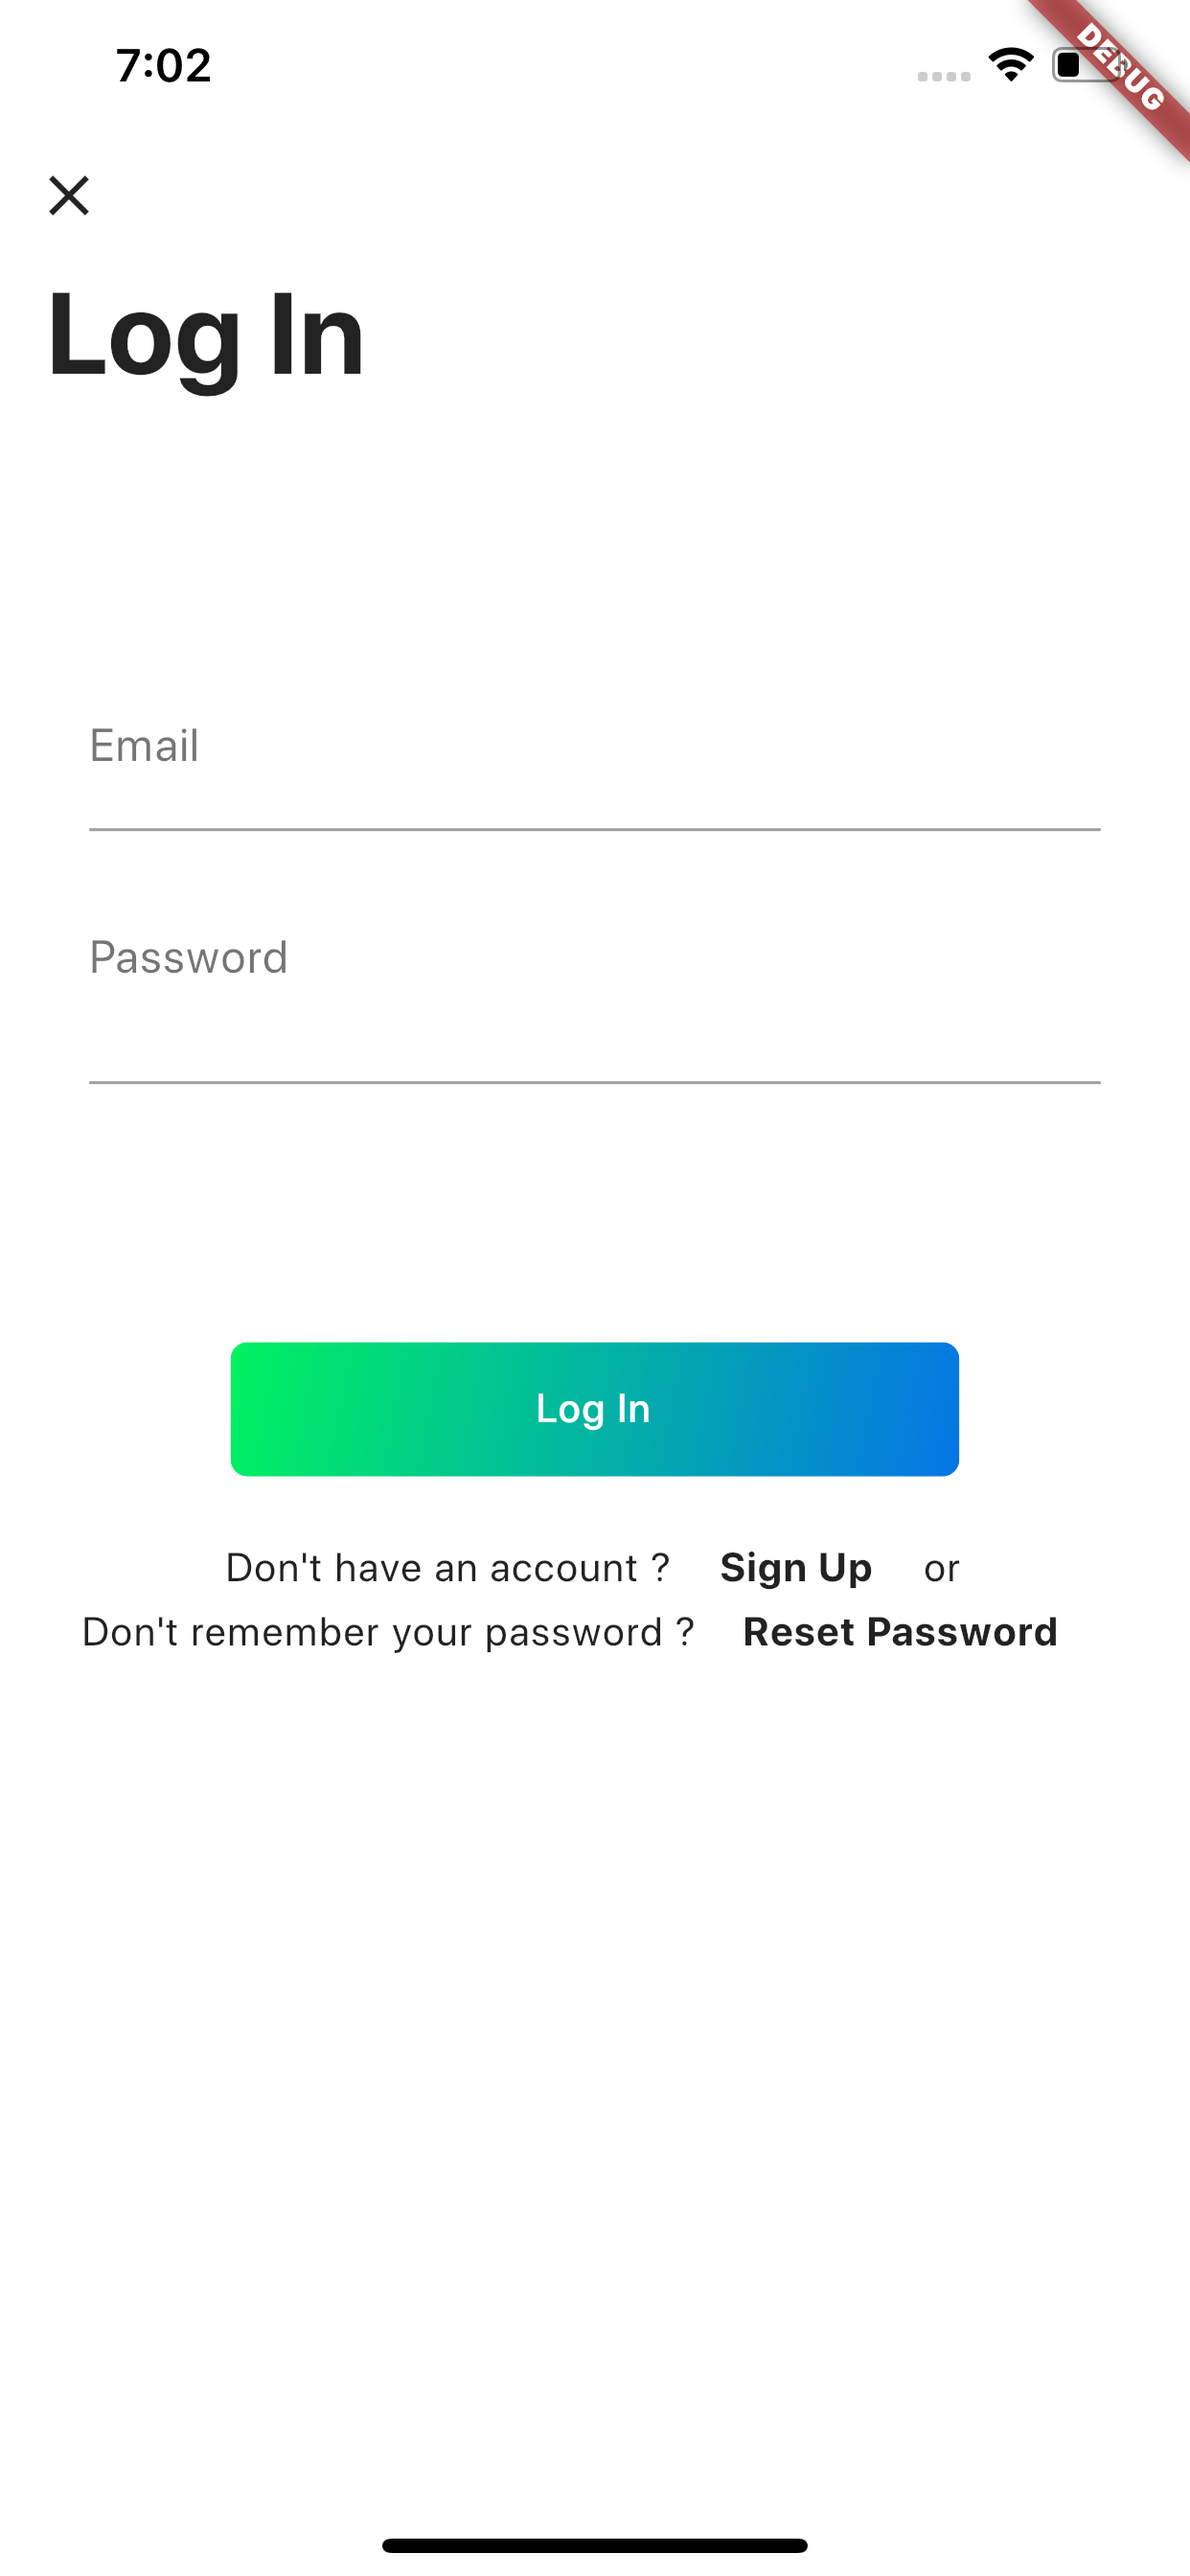
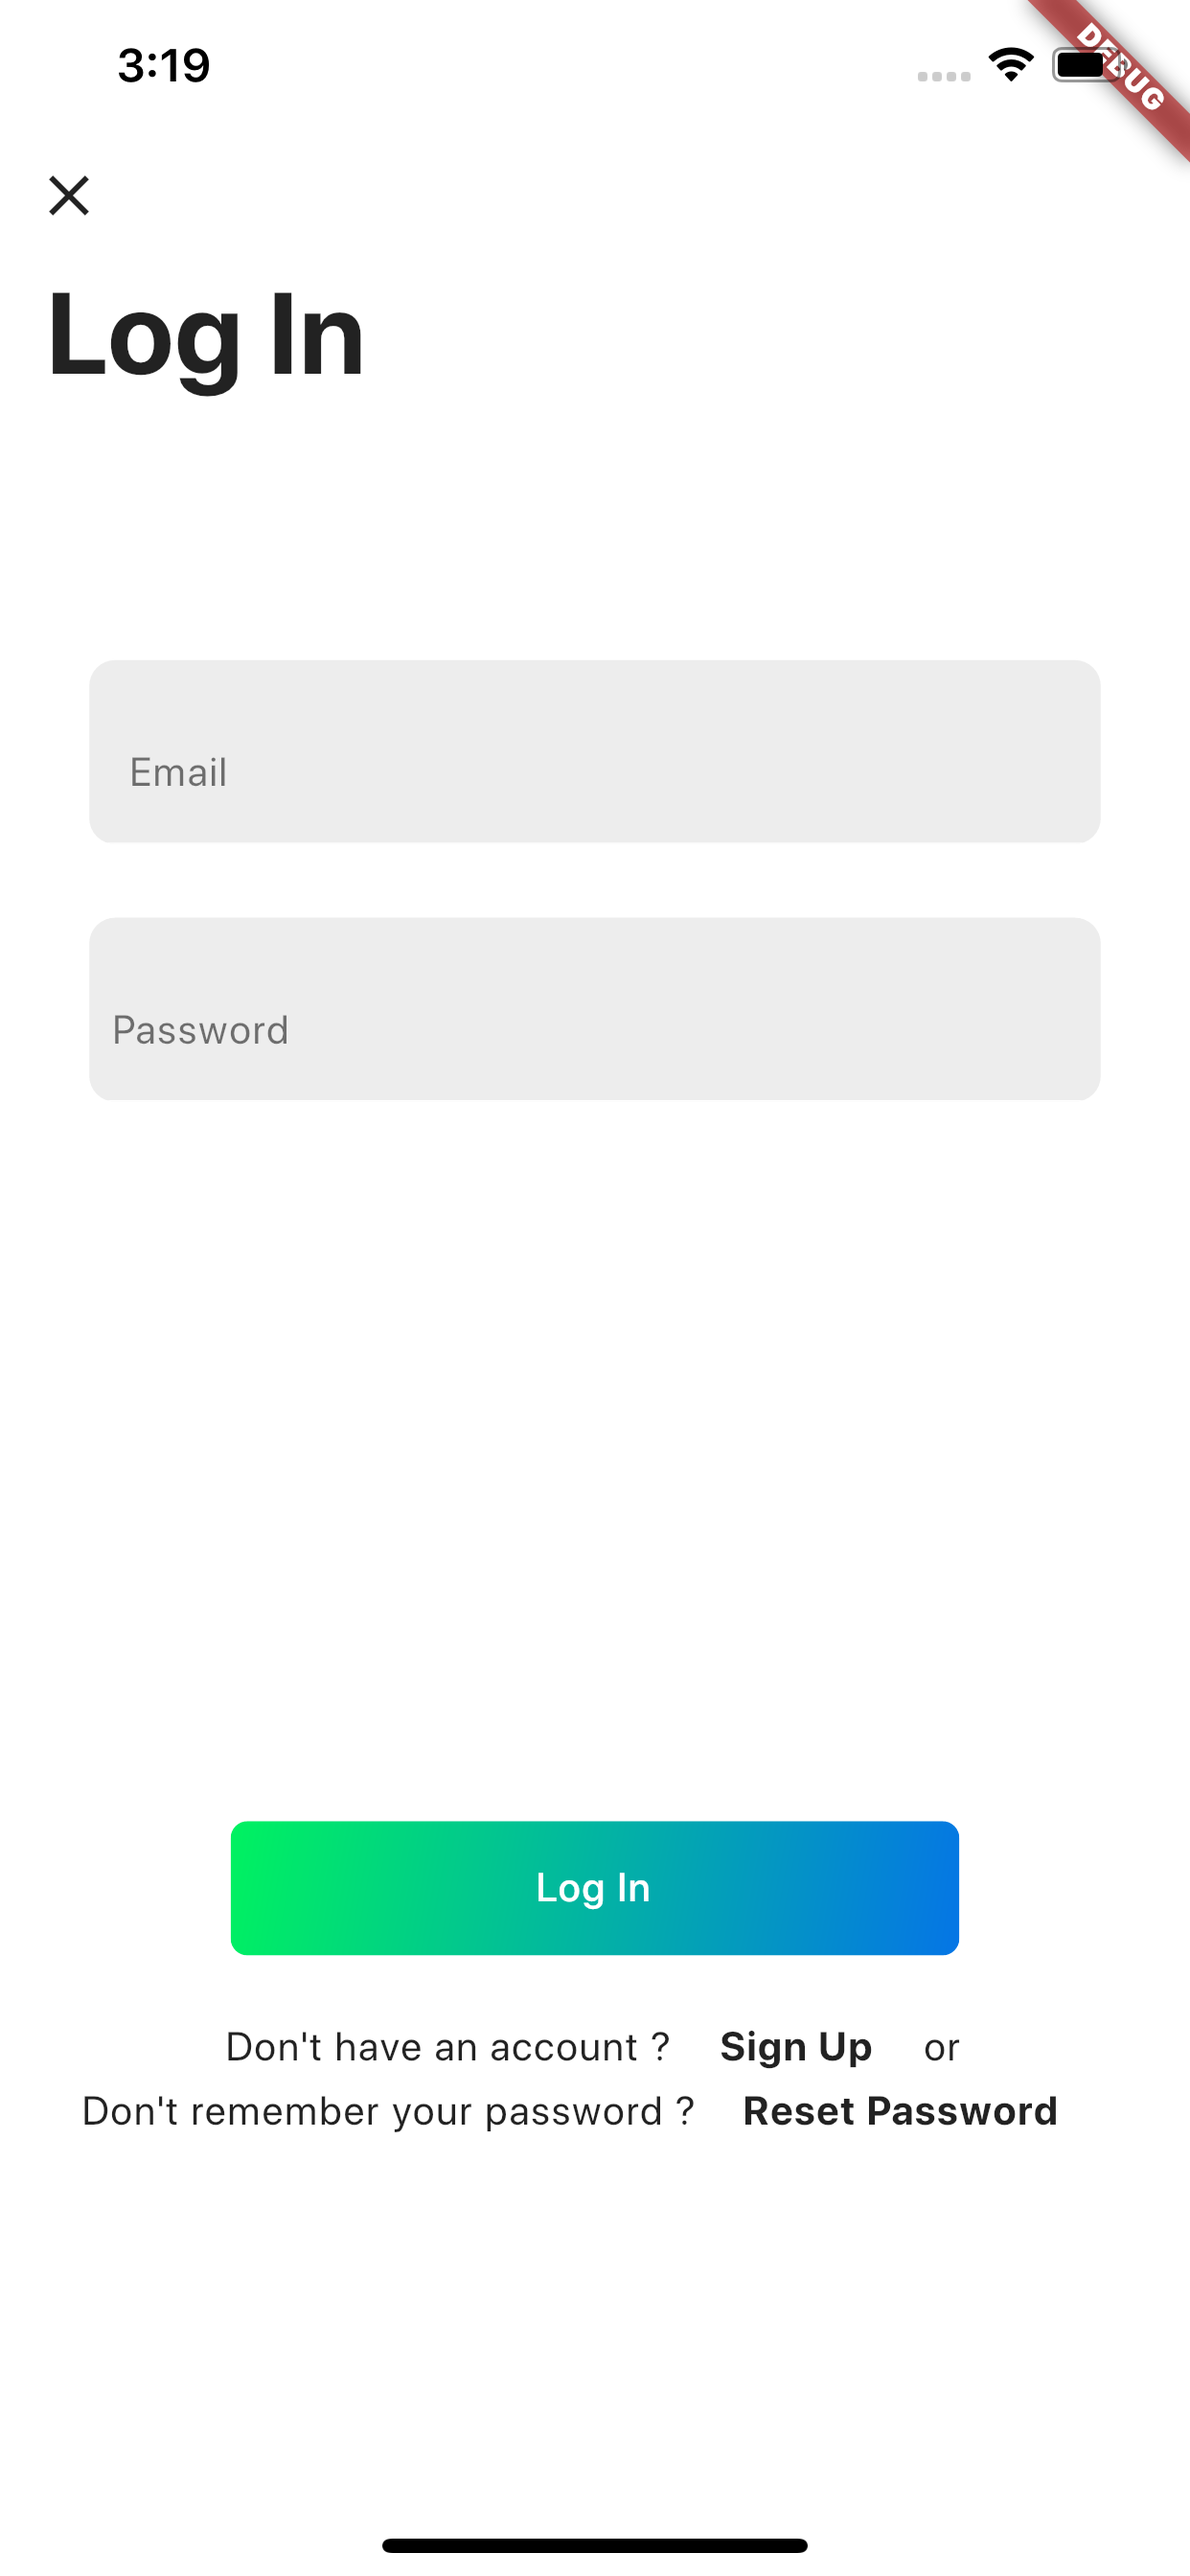
changed pictures

diff --git a/lib/screens/components/ctext_form_field.dart b/lib/screens/components/ctext_form_field.dart
@@ -45,7 +45,7 @@ class CTextFormField extends StatelessWidget {
         data: Theme.of(context).copyWith(splashColor: Colors.transparent),
         child: !isObscure ? TextFormField(
           autofocus: false,
-          style: CustomFontStyle.commonTextStyle.copyWith(color: Colors.grey),
+          style: CustomFontStyle.commonTextStyle.copyWith(color: Colors.black87),
           decoration: InputDecoration(
             filled: true,
             fillColor: Colors.black12.withOpacity(0.07),
@@ -66,7 +66,7 @@ class CTextFormField extends StatelessWidget {
           onSaved: onSaved,
         ) : TextFormField(
           autofocus: false,
-          style: CustomFontStyle.commonTextStyle.copyWith(color: Colors.grey),
+          style: CustomFontStyle.commonTextStyle.copyWith(color: Colors.black87),
           decoration: InputDecoration(
             filled: true,
             fillColor: Colors.black12.withOpacity(0.07),
